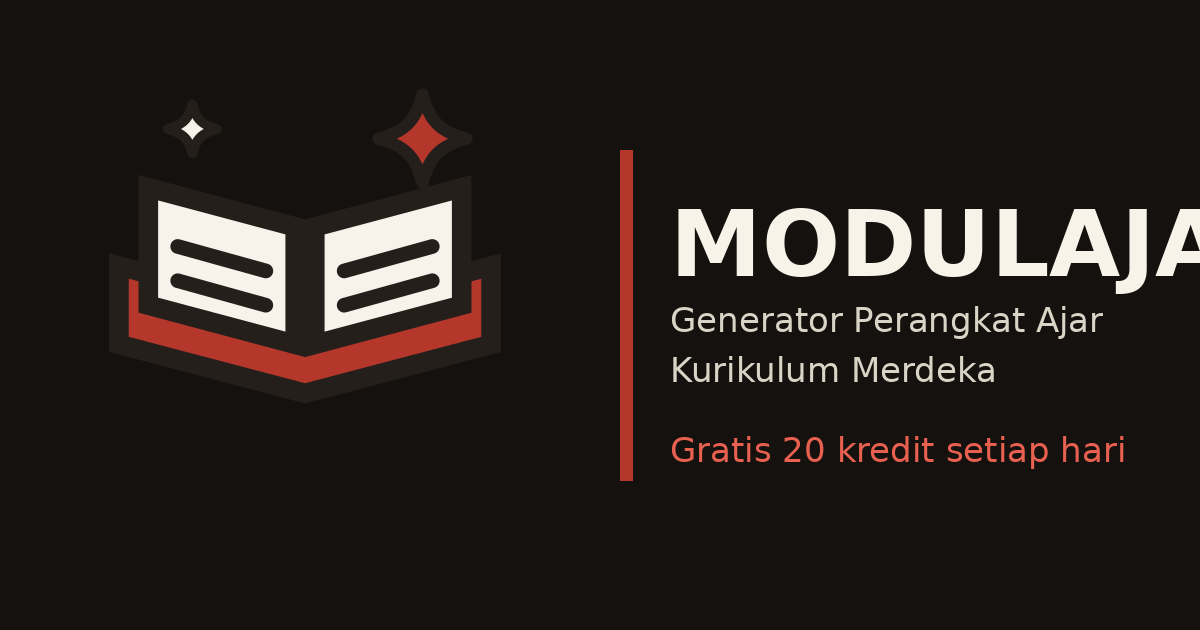
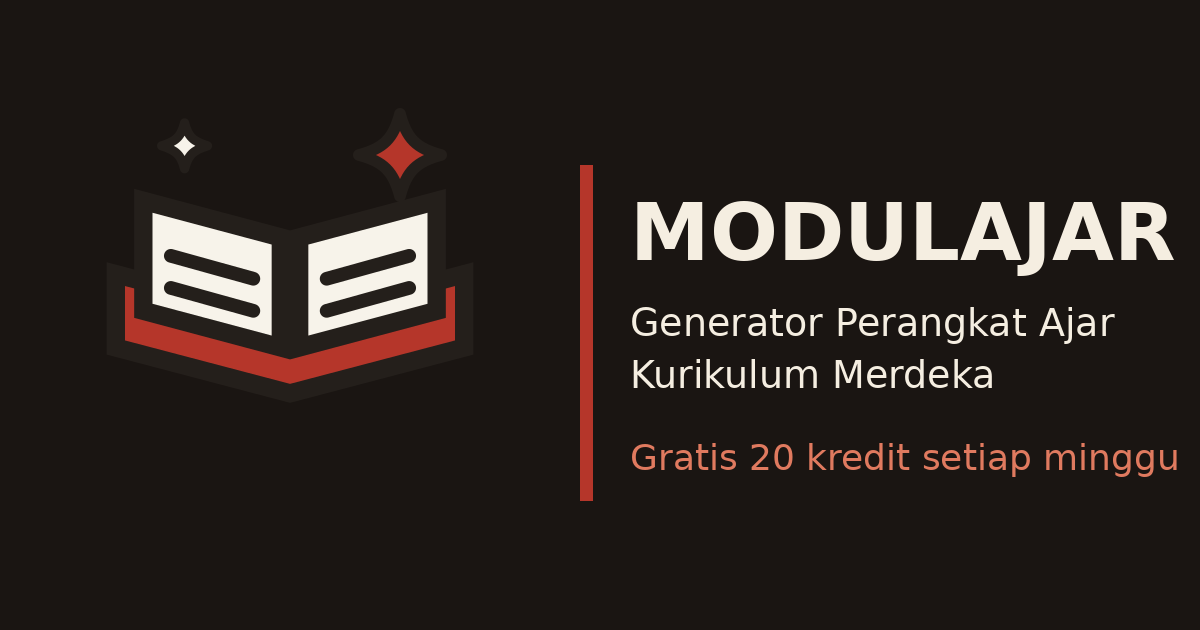
kuota mingguan: reset tiap Minggu jam 15:00 WIB
- periodeKuota(): anchor Minggu 15:00 WIB terakhir (sebelum jam tsb = minggu lalu)
- KUOTA_HARIAN -> KUOTA_MINGGUAN (fallback env lama tetap didukung)
- resetInfo & semua copy: 'kredit hari ini' -> 'kredit minggu ini',
  'setiap hari' -> 'setiap minggu', reset 'Minggu jam 15:00 WIB'
- og-image diregenerasi dengan teks mingguan
- backend/.env.example diselaraskan

diff --git a/backend/server.js b/backend/server.js
@@ -16,7 +16,7 @@ const KENARI_URL = 'https://kenari.id/v1/chat/completions';
 const MODEL = 'agnes-3-0-flash:free';
 
 // ============ KUOTA HARIAN (disebut "Kredit" di UI) ============
-const KUOTA_HARIAN = parseInt(process.env.KUOTA_HARIAN || '20', 10);
+const KUOTA_MINGGUAN = parseInt(process.env.KUOTA_MINGGUAN || process.env.KUOTA_HARIAN || '20', 10);
 const ADMIN_EMAILS = (process.env.ADMIN_EMAILS || 'faruq.blogger@gmail.com')
   .split(',').map((s) => s.trim().toLowerCase()).filter(Boolean);
 
@@ -26,11 +26,18 @@ function isAdmin(user) {
 // Periode kuota berjalan 15:00 WIB s.d. 15:00 WIB berikutnya.
 // Key = tanggal WIB saat periode dimulai (bila sekarang < 15:00 WIB, pakai tanggal kemarin).
 function periodeKuota() {
-  const wib = new Date(new Date().toLocaleString('en-US', { timeZone: 'Asia/Jakarta' }));
-  if (wib.getHours() < 15) wib.setDate(wib.getDate() - 1);
-  const y = wib.getFullYear();
-  const m = String(wib.getMonth() + 1).padStart(2, '0');
-  const d = String(wib.getDate()).padStart(2, '0');
+  // Kuota MINGGUAN: reset tiap Minggu jam 15:00 WIB.
+  // Anchor = Minggu 15:00 WIB terakhir (jika sekarang Minggu sebelum jam 15:00,
+  // masih dihitung minggu lalu). Key periode = tanggal Minggu anchor (YYYY-MM-DD),
+  // disimpan di kolom kuota_harian.tanggal seperti sebelumnya.
+  const kini = new Date(new Date().toLocaleString('en-US', { timeZone: 'Asia/Jakarta' }));
+  const anchor = new Date(kini);
+  anchor.setHours(15, 0, 0, 0);
+  anchor.setDate(anchor.getDate() - anchor.getDay()); // mundur ke hari Minggu
+  if (anchor > kini) anchor.setDate(anchor.getDate() - 7);
+  const y = anchor.getFullYear();
+  const m = String(anchor.getMonth() + 1).padStart(2, '0');
+  const d = String(anchor.getDate()).padStart(2, '0');
   return `${y}-${m}-${d}`;
 }
 // Awal window bonus referral 3-hari (anchor tetap dari epoch): YYYY-MM-DD
@@ -67,8 +74,8 @@ async function kuotaInfo(userId) {
       bonus = data?.bonus || 0;
     } catch { /* tabel bonus belum ada: abaikan */ }
   }
-  const sisa = Math.max(0, KUOTA_HARIAN - dipakai + bonus);
-  return { batas: KUOTA_HARIAN, dipakai, bonus, sisa, resetInfo: '15:00 WIB', periode };
+  const sisa = Math.max(0, KUOTA_MINGGUAN - dipakai + bonus);
+  return { batas: KUOTA_MINGGUAN, dipakai, bonus, sisa, resetInfo: 'Minggu 15:00 WIB', periode };
 }
 // Increment kuota diserialkan: langkah paralel (modul/LKPD, konkurensi 3)
 // tidak boleh baca-tulis bersamaan sampai ada increment yang hilang
@@ -1820,7 +1827,7 @@ app.get('/api/kuota', requireAuth(async (req, res) => {
       dipakai: admin ? 0 : info.dipakai,
       bonus: admin ? 0 : info.bonus,
       sisa: admin ? null : info.sisa,
-      resetInfo: 'Kredit diperbarui setiap jam 15:00 WIB.',
+      resetInfo: 'Kredit diperbarui setiap Minggu jam 15:00 WIB.',
       periode: info.periode,
     });
   } catch (e) {

diff --git a/frontend/index.html b/frontend/index.html
@@ -4,7 +4,7 @@
 <meta charset="UTF-8" />
 <meta name="viewport" content="width=device-width, initial-scale=1.0" />
 <title>ModulAjar — Generator Perangkat Ajar Kurikulum Merdeka</title>
-<meta name="description" content="ModulAjar menyusun perangkat ajar Kurikulum Merdeka berurutan: CP, ATP, Prota, Prosem, Modul Ajar, LKPD, Bank Soal, dan KKTP. Gratis 20 kredit setiap hari." />
+<meta name="description" content="ModulAjar menyusun perangkat ajar Kurikulum Merdeka berurutan: CP, ATP, Prota, Prosem, Modul Ajar, LKPD, Bank Soal, dan KKTP. Gratis 20 kredit setiap minggu." />
 <meta name="keywords" content="modul ajar, perangkat pembelajaran, kurikulum merdeka, CP, ATP, prota, prosem, LKPD, bank soal, KKTP, generator modul ajar, AI untuk guru" />
 <meta name="author" content="Alfaruq Asri, S.Pd." />
 <meta name="robots" content="index, follow" />
@@ -19,7 +19,7 @@
 <meta property="og:site_name" content="ModulAjar" />
 <meta property="og:locale" content="id_ID" />
 <meta property="og:title" content="ModulAjar — Generator Perangkat Ajar Kurikulum Merdeka" />
-<meta property="og:description" content="Dari CP sampai bank soal, tersusun berurutan mengikuti Kurikulum Merdeka. Gratis 20 kredit setiap hari." />
+<meta property="og:description" content="Dari CP sampai bank soal, tersusun berurutan mengikuti Kurikulum Merdeka. Gratis 20 kredit setiap minggu." />
 <meta property="og:url" content="https://modulajar.alfaruqasri.my.id/" />
 <meta property="og:image" content="https://modulajar.alfaruqasri.my.id/og-image.png" />
 <meta property="og:image:width" content="1200" />
@@ -29,7 +29,7 @@
 <!-- Twitter -->
 <meta name="twitter:card" content="summary_large_image" />
 <meta name="twitter:title" content="ModulAjar — Generator Perangkat Ajar Kurikulum Merdeka" />
-<meta name="twitter:description" content="Dari CP sampai bank soal, tersusun berurutan mengikuti Kurikulum Merdeka. Gratis 20 kredit setiap hari." />
+<meta name="twitter:description" content="Dari CP sampai bank soal, tersusun berurutan mengikuti Kurikulum Merdeka. Gratis 20 kredit setiap minggu." />
 <meta name="twitter:image" content="https://modulajar.alfaruqasri.my.id/og-image.png" />
 
 <!-- Structured data -->
@@ -41,7 +41,7 @@
   "alternateName": "ModulAjar — Generator Modul Ajar",
   "url": "https://modulajar.alfaruqasri.my.id/",
   "image": "https://modulajar.alfaruqasri.my.id/og-image.png",
-  "description": "Generator perangkat ajar Kurikulum Merdeka: CP, ATP, Prota, Prosem, Modul Ajar, LKPD, Bank Soal, dan KKTP. Gratis 20 kredit setiap hari.",
+  "description": "Generator perangkat ajar Kurikulum Merdeka: CP, ATP, Prota, Prosem, Modul Ajar, LKPD, Bank Soal, dan KKTP. Gratis 20 kredit setiap minggu.",
   "applicationCategory": "EducationalApplication",
   "operatingSystem": "Web",
   "inLanguage": "id",

diff --git a/frontend/src/components/Landing.jsx b/frontend/src/components/Landing.jsx
@@ -41,7 +41,7 @@ const CARA_KERJA = [
 
 const FAQ = [
   ['Apakah ModulAjar gratis?',
-    'Ya. Setiap akun mendapat 20 kredit gratis setiap hari, diperbarui tiap jam 15:00 WIB. Satu dokumen yang selesai dibuat memakai 1 kredit. Tidak ada kartu kredit, tidak ada masa coba yang tiba-tiba menagih.'],
+    'Ya. Setiap akun mendapat 20 kredit gratis setiap minggu, diperbarui setiap Minggu jam 15:00 WIB. Satu dokumen yang selesai dibuat memakai 1 kredit. Tidak ada kartu kredit, tidak ada masa coba yang tiba-tiba menagih.'],
   ['Dokumen apa saja yang bisa dibuat?',
     'CP, ATP, Minggu Efektif, Prota, Prosem, Modul Ajar (lengkap dengan materi, bank soal, rubrik, dan lembar pengesahan), LKPD, Bank Soal, dan KKTP. Semuanya mengikuti alur Kurikulum Merdeka.'],
   ['Apakah saya harus menyusun CP dan ATP dulu?',
@@ -80,7 +80,7 @@ export default function Landing({ onStart, onDocs, onMasukan, waLink }) {
           <button className="btn btn-primary" onClick={onStart}>Mulai Membuat</button>
           <a className="btn btn-ghost-light" href="#cara-kerja">Lihat Cara Kerja</a>
         </div>
-        <p className="hero-note">Gratis 20 kredit setiap hari. Tanpa kartu kredit.</p>
+        <p className="hero-note">Gratis 20 kredit setiap minggu. Tanpa kartu kredit.</p>
       </section>
 
       <div className="marquee" aria-hidden="true">
@@ -141,8 +141,8 @@ export default function Landing({ onStart, onDocs, onMasukan, waLink }) {
           <div className="land-price-main">
             <b className="land-price-num">20</b>
             <div>
-              <b>kredit gratis setiap hari</b>
-              <p>Diperbarui tiap jam 15:00 WIB. Satu dokumen yang selesai dibuat memakai 1 kredit. Cukup untuk perangkat satu kelas.</p>
+              <b>kredit gratis setiap minggu</b>
+              <p>Diperbarui setiap Minggu jam 15:00 WIB. Satu dokumen yang selesai dibuat memakai 1 kredit. Cukup untuk perangkat satu kelas.</p>
             </div>
           </div>
           <ul className="land-price-list">
@@ -180,7 +180,7 @@ export default function Landing({ onStart, onDocs, onMasukan, waLink }) {
               <b>ModulAjar</b>
               <span>Perangkat Ajar AI untuk Guru Indonesia</span>
             </div>
-            <p>Dari CP sampai bank soal — tersusun berurutan mengikuti Kurikulum Merdeka. Gratis 20 kredit setiap hari.</p>
+            <p>Dari CP sampai bank soal — tersusun berurutan mengikuti Kurikulum Merdeka. Gratis 20 kredit setiap minggu.</p>
           </div>
           <nav aria-label="Produk">
             <b>Produk</b>

diff --git a/frontend/src/components/Paywall.jsx b/frontend/src/components/Paywall.jsx
@@ -39,12 +39,12 @@ export default function Paywall({ mode, detail, onClose, waLink }) {
             <h2 id="paywall-judul">Kredit harian habis</h2>
             <p>
               {typeof dipakai === 'number' && typeof batas === 'number'
-                ? `Kamu memakai ${dipakai} dari ${batas} kredit hari ini. `
+                ? `Kamu memakai ${dipakai} dari ${batas} kredit minggu ini. `
                 : 'Kredit harianmu sudah habis. '}
               {typeof butuh === 'number' && typeof sisa === 'number'
                 ? `Paket ini butuh ${butuh} dokumen, sisa kreditmu ${sisa}. `
                 : ''}
-              Kredit diperbarui setiap jam 15:00 WIB, atau upgrade untuk membuat tanpa batas.
+              Kredit diperbarui setiap Minggu jam 15:00 WIB, atau upgrade untuk membuat tanpa batas.
             </p>
             <div className="btn-row">
               <button ref={utamaRef} type="button" className="btn btn-primary" onClick={() => setLayar('upgrade')}>

diff --git a/frontend/src/components/Topbar.jsx b/frontend/src/components/Topbar.jsx
@@ -132,7 +132,7 @@ export default function Topbar({ view, onNav, user, kuota, onOpenSettings, onOpe
             type="button"
             className={'kuota-pil' + (kuota.admin ? ' admin' : '')}
             onClick={onOpenSettings}
-            title={kuota.admin ? 'Akun admin: tanpa batas kredit' : `Sisa ${kuota.sisa} dari ${kuota.batas} kredit hari ini. Klik untuk buka Pengaturan.`}
+            title={kuota.admin ? 'Akun admin: tanpa batas kredit' : `Sisa ${kuota.sisa} dari ${kuota.batas} kredit minggu ini. Klik untuk buka Pengaturan.`}
             aria-label={kuota.admin ? 'Akun admin, tanpa batas kredit. Buka pengaturan.' : `Sisa kredit ${kuota.sisa} dari ${kuota.batas}. Buka pengaturan.`}
           >
             <span className="kuota-dot" aria-hidden="true" />

diff --git a/frontend/src/components/DocsView.jsx b/frontend/src/components/DocsView.jsx
@@ -120,7 +120,7 @@ export default function DocsView({ onBack, onMasukan }) {
 
           <S id="kredit" kicker="Kuota" judul="Kredit & Langganan">
             <ul>
-              <li>Setiap akun mendapat <b>20 kredit gratis per hari</b>, diperbarui tiap <b>jam 15:00 WIB</b>.</li>
+              <li>Setiap akun mendapat <b>20 kredit gratis per minggu</b>, diperbarui setiap <b>Minggu jam 15:00 WIB</b>.</li>
               <li>Satu dokumen yang selesai dibuat memakai <b>1 kredit</b>. Paket mengecek kecukupan di awal.</li>
               <li>Sisa kredit tampil di bilah atas, halaman Pengaturan, dan di samping tombol Generate.</li>
               <li>Kredit habis? Paket berbayar tersedia via WhatsApp, atau pakai kunci AI sendiri (di bawah).</li>

diff --git a/frontend/src/components/Pengaturan.jsx b/frontend/src/components/Pengaturan.jsx
@@ -365,8 +365,8 @@ export default function Pengaturan({ user, kuota, waLink, onRefresh, onSignOut }
         {kuota && !kuota.admin && (
           <>
             <p style={{ marginTop: 0 }}>
-              Sisa <b>{kuota.sisa}</b> dari <b>{kuota.batas}</b> kredit hari ini.
-              20 kredit/hari, diperbarui setiap jam 15:00 WIB.
+              Sisa <b>{kuota.sisa}</b> dari <b>{kuota.batas}</b> kredit minggu ini.
+              20 kredit/minggu, diperbarui setiap Minggu jam 15:00 WIB.
             </p>
             <div className="btn-row" style={{ marginTop: 12, marginBottom: 0 }}>
               <button type="button" className="btn btn-sm btn-primary" onClick={() => setPaywall({ mode: 'upgrade' })}>

diff --git a/frontend/src/components/Wizard.jsx b/frontend/src/components/Wizard.jsx
@@ -668,7 +668,7 @@ export default function Wizard({ onDone, onCancel, initial, preselectPaketId, pr
           )}
           <div className="alert alert-info">Proses generate membutuhkan ±30–60 detik. Jangan tutup halaman ini.</div>
           {kuota && !kuota.admin && (
-            <p className="hint" style={{ margin: '0 0 4px' }}>Sisa kredit hari ini: <b>{kuota.sisa}</b> dari {kuota.batas}.</p>
+            <p className="hint" style={{ margin: '0 0 4px' }}>Sisa kredit minggu ini: <b>{kuota.sisa}</b> dari {kuota.batas}.</p>
           )}
           {kuota && kuota.admin && (
             <p className="hint" style={{ margin: '0 0 4px' }}>Kredit: tanpa batas (Admin).</p>

diff --git a/frontend/src/components/GeneratorPaket.jsx b/frontend/src/components/GeneratorPaket.jsx
@@ -383,7 +383,7 @@ export default function GeneratorPaket({ onBack, onOpenDoc, onChanged, waLink, k
           {errJalan && <div className="alert" style={{ marginTop: 14 }}>{errJalan}</div>}
 
           {kuota && !kuota.admin && (
-            <p className="hint" style={{ margin: '0 0 4px' }}>Sisa kredit hari ini: <b>{kuota.sisa}</b> dari {kuota.batas}.</p>
+            <p className="hint" style={{ margin: '0 0 4px' }}>Sisa kredit minggu ini: <b>{kuota.sisa}</b> dari {kuota.batas}.</p>
           )}
           {kuota && kuota.admin && (
             <p className="hint" style={{ margin: '0 0 4px' }}>Kredit: tanpa batas (Admin).</p>
